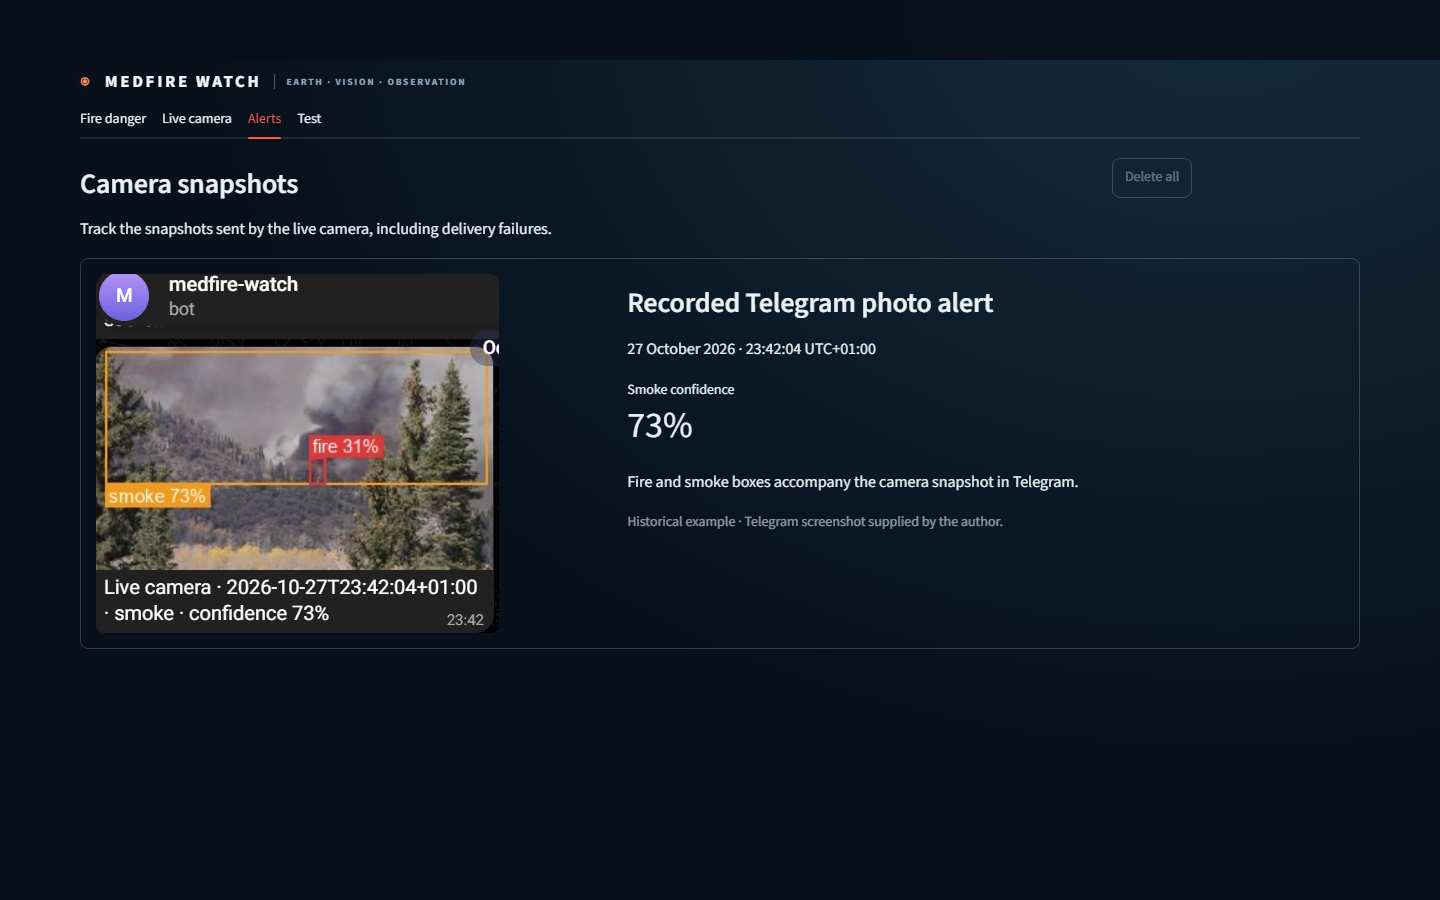
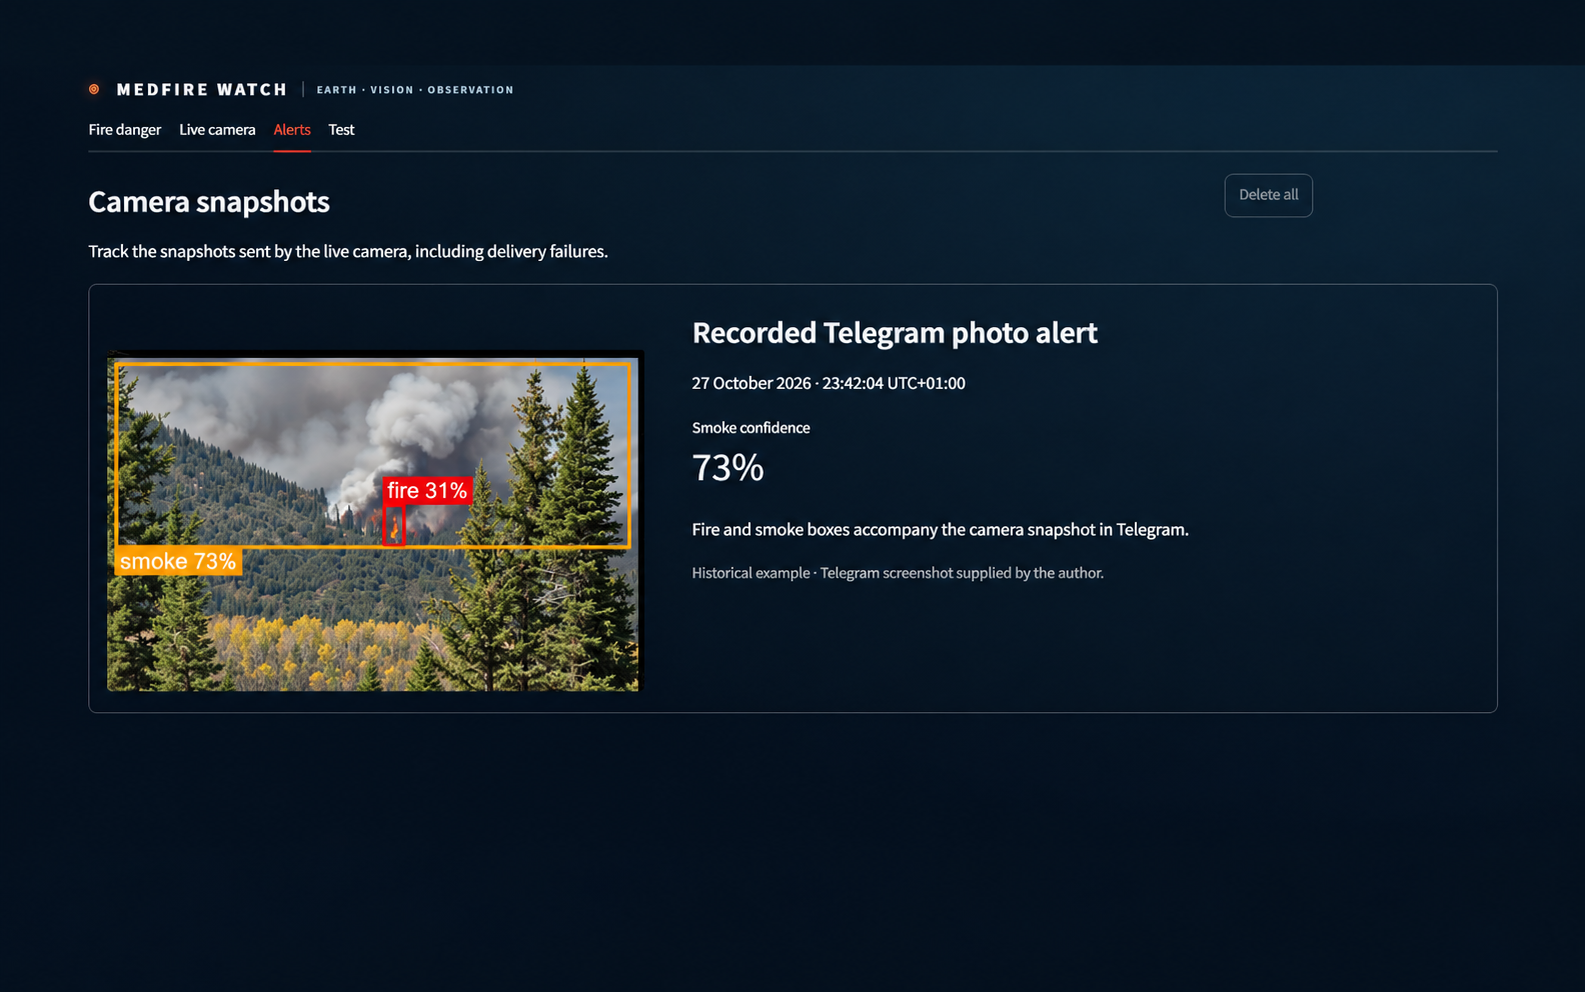
some changes

diff --git a/scripts/capture_media.py b/scripts/capture_media.py
@@ -106,6 +106,83 @@ def encode_gif(ffmpeg: str, video: Path, target: Path, duration: int = 20) -> No
     raise RuntimeError(f"{target.name} exceeds 8 MB.")
 
 
+def capture_weather_journey(context: Any, api: str, work: Path, ffmpeg: str) -> None:
+    """Capture settled map frames so network waits cannot enter the final 12 fps animation."""
+    page = context.new_page()
+    page.goto(api + "/world-map?capture=weather-journey")
+    page.wait_for_selector(".maplibregl-canvas")
+    page.wait_for_timeout(8000)
+    page.wait_for_function(
+        """async () => {
+          const {captureMap:m} = await import(document.querySelector('script[type=module]').src);
+          return !!m?.getLayer('fire-weather') && m.getLayoutProperty('fire-weather','visibility') !== 'none';
+        }""",
+        timeout=60000,
+    )
+    page.locator("#map-controls").evaluate("element => { element.open = true; }")
+    page.get_by_label("Weather danger areas", exact=False).check()
+    open_credits(page)
+    frames = Path(tempfile.mkdtemp(prefix="settled-frames-", dir=work))
+    for index in range(240):
+        if index < 24:
+            camera = {"center": [10 + index * 0.3, 30], "zoom": 1.3, "pitch": 0, "bearing": 0}
+        elif index < 120:
+            t = (index - 24) / 95
+            zoom = 1.3 + 14.4 * t
+            camera = {
+                "center": [5.3672 + 11.5328 * (1 - t) ** 5, 43.3114 - 13.3114 * (1 - t) ** 5],
+                "zoom": zoom,
+                "pitch": max(0, (zoom - 13.8) / 1.9) * 50,
+                "bearing": -25 * t,
+            }
+        elif index < 168:
+            camera = {"center": [5.3672, 43.3114], "zoom": 15.7, "pitch": 50, "bearing": -25 + 60 * (index - 120) / 47}
+        else:
+            camera = {"center": [5.3672, 43.3114], "zoom": 15.7, "pitch": 50, "bearing": 35}
+        if index == 36:
+            page.locator("#map-controls").evaluate("element => { element.open = false; }")
+        map_action(page, "camera", camera)
+        # Let the camera update source coverage before checking provider requests.
+        page.wait_for_timeout(100)
+        page.wait_for_function(
+            """async () => {
+              const {captureMap:m} = await import(document.querySelector('script[type=module]').src);
+              return m.areTilesLoaded() && m.isStyleLoaded();
+            }""",
+            timeout=60000,
+        )
+        await_render = "() => new Promise(resolve => requestAnimationFrame(() => requestAnimationFrame(resolve)))"
+        page.evaluate(await_render)
+        page.screenshot(path=str(frames / f"{index:04d}.png"))
+        if index % 24 == 0:
+            print(f"Settled weather/3D frame {index}/240", flush=True)
+    page.close()
+    target = ROOT / "docs/media/earth-weather-3d.gif"
+    for width, colours in [(480, 128), (440, 96), (400, 96), (360, 96)]:
+        subprocess.run(
+            [
+                ffmpeg,
+                "-y",
+                "-framerate",
+                "12",
+                "-i",
+                str(frames / "%04d.png"),
+                "-filter_complex",
+                f"scale={width}:-1:flags=lanczos,split[a][b];[a]palettegen=max_colors={colours}:"
+                "reserve_transparent=0[p];[b][p]paletteuse=dither=none",
+                "-loop",
+                "0",
+                str(target),
+            ],
+            check=True,
+            capture_output=True,
+        )
+        if target.stat().st_size < 8_000_000:
+            break
+    assert target.stat().st_size < 8_000_000
+    print("Weather-colour journey encoded at 12 fps from fully loaded PNG frames", flush=True)
+
+
 def capture_maps(context: Any, api: str, output: Path, work: Path, ffmpeg: str) -> dict:
     """Capture real observations, city buildings and a globe-to-city camera journey."""
     page = context.new_page()
@@ -159,34 +236,8 @@ def capture_maps(context: Any, api: str, output: Path, work: Path, ffmpeg: str) 
 
     page.locator("#map-controls summary").click()
     (work / "map-checks.json").write_text(json.dumps(stats, indent=2), encoding="utf-8")
-    # Warm the target's real map tiles before recording the approach, then return to the globe.
-    camera = CITIES["marseille"]
-    for zoom in [4, 7, 10, 12, 14, camera["zoom"]]:
-        map_action(page, "camera", {"center": camera["center"], "zoom": zoom, "pitch": 0, "bearing": -25})
-        page.wait_for_function(
-            """async () => {
-              const {captureMap} = await import(document.querySelector('script[type=module]').src);
-              return captureMap.areTilesLoaded();
-            }""",
-            timeout=30000,
-        )
-        page.wait_for_timeout(500)
-    map_action(page, "camera", {"center": [10, 30], "zoom": 1.3, "pitch": 0, "bearing": 0})
-    page.wait_for_timeout(4000)
-    recording = page.video
-    map_action(page, "orbit", {"center": [25, 30], "zoom": 1.5, "duration": 3000})
-    page.wait_for_timeout(3000)
-    map_action(page, "fly", {**camera, "pitch": 0, "duration": 10000, "curve": 1.25})
-    page.wait_for_timeout(10000)
-    map_action(page, "orbit", {"pitch": 60, "duration": 2000})
-    page.wait_for_timeout(2000)
-    map_action(page, "orbit", {"bearing": 35, "duration": 4000})
-    page.wait_for_timeout(4000)
-    page.wait_for_timeout(1000)
     page.close()
-    encode_gif(ffmpeg, recording.path(), ROOT / "docs/media/earth-zoom.gif")
-    print("Recorded Earth zoom and 3D orbit GIF", flush=True)
-    (work / "map-checks.json").write_text(json.dumps(stats, indent=2), encoding="utf-8")
+    capture_weather_journey(context, api, work, ffmpeg)
     return stats
 
 
@@ -243,7 +294,7 @@ def main() -> None:
     """Launch isolated services and capture real browser media at 1440×900."""
     parser = argparse.ArgumentParser(description=__doc__)
     parser.add_argument("--video", required=True, type=Path, help="License-cleared fire clip without faces.")
-    parser.add_argument("--section", choices=["all", "map", "detection"], default="all")
+    parser.add_argument("--section", choices=["all", "map", "detection", "weather-gif"], default="all")
     parser.add_argument("--camera-video", type=Path, help="A separate cleared clip for the simulated camera.")
     parser.add_argument("--image-video", type=Path, help="A separate cleared scene for image inspection.")
     parser.add_argument("--api-port", type=int, default=18000)
@@ -350,6 +401,8 @@ def main() -> None:
                 route.fulfill(response=response, body=response.text() + "\nexport {map as captureMap};\n")
 
             context.route("**/world-map/app.mjs*", expose_map)
+            if args.section == "weather-gif":
+                capture_weather_journey(context, api, work, ffmpeg)
             if args.section in {"all", "map"}:
                 capture_maps(context, api, output, work, ffmpeg)
             if args.section in {"all", "detection"}:

diff --git a/docs/media/CREDITS.md b/docs/media/CREDITS.md
@@ -45,27 +45,30 @@ the author's supplied historical Telegram screenshot in a labelled, read-only ca
 It does not insert delivery records, send messages or alter the actual user's alert history.
 Normal application launches show actual delivery history. Camera screenshots precede delivery attempts.
 Streamlit's supported `client.toolbarMode` and `ui.hideTopBar` settings hide toolbar controls.
-Both GIFs derive from 20-second Playwright recordings, without source audio.
-The map recording uses a capture-only JavaScript export to control the existing MapLibre camera;
+The prediction GIF derives from a 20-second Playwright recording, without source audio.
+The map GIF uses 240 fully loaded PNG captures at 12 fps, so network waits are excluded
+from the animation. Official weather colours stay enabled throughout the journey.
+The map capture uses a capture-only JavaScript export to control the existing MapLibre camera;
 provider data, geometry and application styling are real and unmodified.
 The populated feed's empty-state message is checked using Chromium's computed styles.
 City captures must contain rendered buildings with a camera pitch of at least 50 degrees.
 
 ## Capture inventory
 
-All eight PNG captures are 1440×900: `fire-danger.png`, `satellite-detections.png`, `map-tunis.png`,
-`map-marseille.png`, `image-inspector.png`, `video-studio.png`, `live-camera.png` and `alerts.png` under
-`docs/screenshots/`. The camera uses a recorded stream, not a physical camera.
-`demo.gif` shows live prediction; `earth-zoom.gif` shows the globe-to-Marseille approach and a 3D orbit.
-Each is 20 seconds and below 8 MB. Encoding uses 256 colours without dithering, transparent
-delta frames or offset subframes, preventing patterned trails and incomplete-frame artifacts.
-Resolution and frame rate adapt to the size limit while preserving viewport aspect ratio.
+The automated map, image and video screenshots are 1440×900. The author supplied replacement
+versions of `alerts.png` (1585×992) and `live-camera.png` (1586×992); these are included unchanged.
+They supersede the automated captures of those views. The camera showcase uses a recorded
+stream, not a physical camera. These supplied replacements are presentation assets;
+they are not additional model-evaluation evidence.
+`demo.gif` shows live prediction; `earth-weather-3d.gif` shows the globe-to-Marseille approach and a 3D orbit.
+Each is 20 seconds and below 8 MB. Encoding avoids dithering to prevent patterned trails.
+The weather animation keeps 12 fps; resolution and palette adapt to the size limit.
 The capture source uses NASA's medium-resolution rendition. Annotations are actual model predictions.
 
 | GIF | Dimensions | Duration | Bytes |
 | --- | --- | --- | --- |
 | `demo.gif` | 560×350, 4 fps | 20 seconds | 4,458,365 |
-| `earth-zoom.gif` | 480×300, 4 fps | 20 seconds | 7,405,101 |
+| `earth-weather-3d.gif` | 400×250, 12 fps during movement | 20 seconds | 6,908,127 |
 
 ## Author contribution
 

diff --git a/README.fr.md b/README.fr.md
@@ -13,7 +13,7 @@ Observation satellite et météo, avec détection locale du feu et de la fumée 
 
 | Prédiction en direct | Du globe à la ville en 3D |
 | --- | --- |
-| ![Prédiction en direct](docs/media/demo.gif) | ![Zoom sur la Terre et bâtiments en 3D](docs/media/earth-zoom.gif) |
+| ![Prédiction en direct](docs/media/demo.gif) | ![Zoom sur la Terre et bâtiments en 3D](docs/media/earth-weather-3d.gif) |
 
 ## Résultats clés
 

diff --git a/README.md b/README.md
@@ -13,7 +13,7 @@ Satellite and weather awareness with local camera, image and video fire/smoke de
 
 | Live prediction | Earth zoom and 3D city |
 | --- | --- |
-| ![Live prediction](docs/media/demo.gif) | ![Earth-to-city zoom and 3D buildings](docs/media/earth-zoom.gif) |
+| ![Live prediction](docs/media/demo.gif) | ![Earth-to-city zoom and 3D buildings](docs/media/earth-weather-3d.gif) |
 
 ## Key results
 
